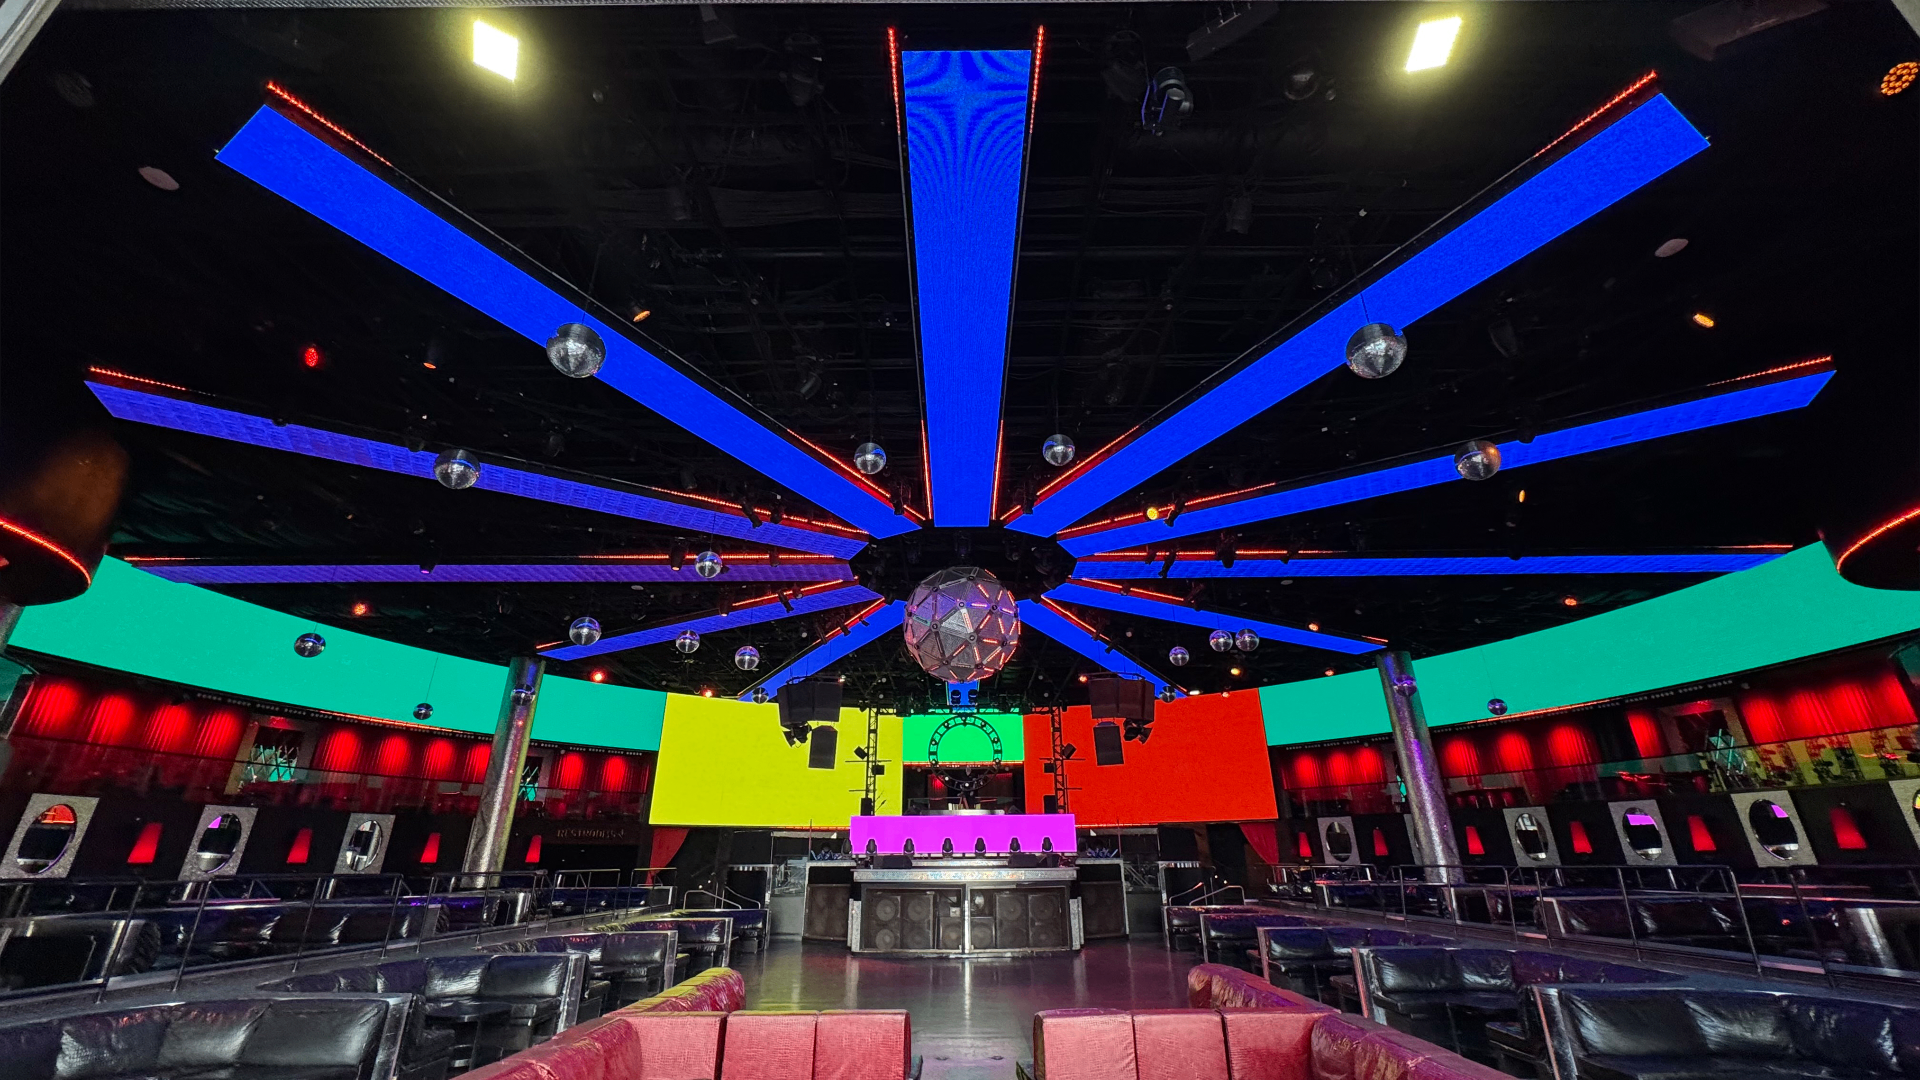
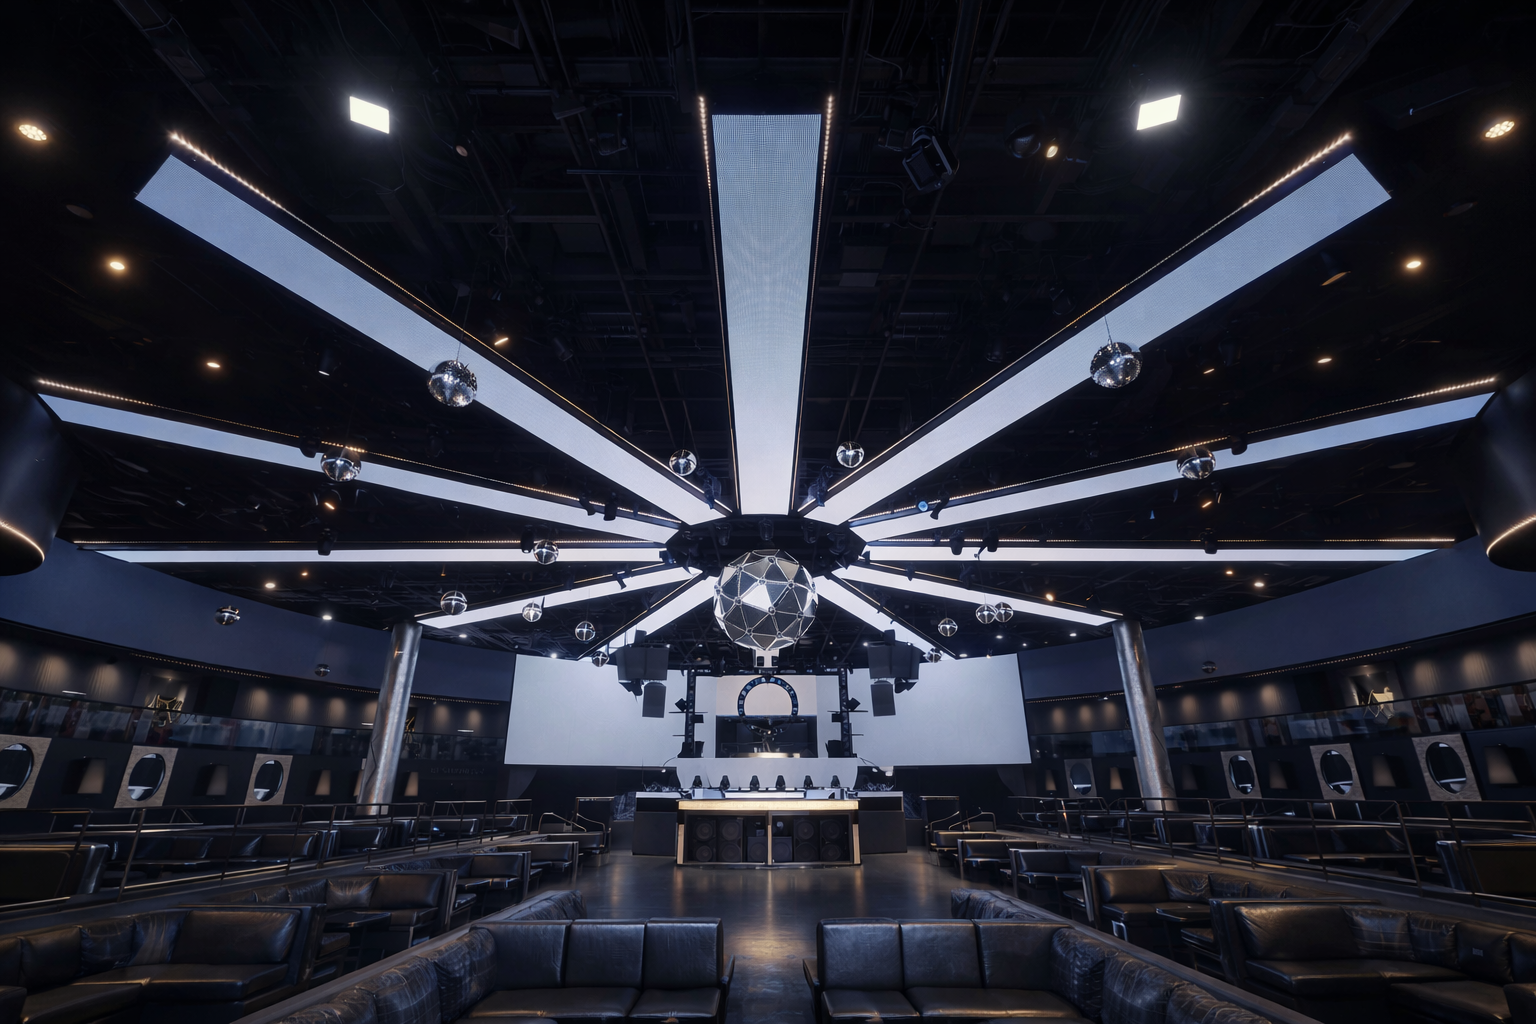
Changes

diff --git a/src/components/VenueScreenMap.tsx b/src/components/VenueScreenMap.tsx
@@ -18,8 +18,8 @@ interface VenueScreenMapProps {
 const SCREEN_SEGMENTS = [
   // Sol Rays (ceiling section)
   { id: 'Sol Rays', svgId: 'Sol_Rays', group: 'solRays', label: 'Sol Rays', description: 'Main ceiling LED display' },
-  // DJ Booth
-  { id: 'DJ Booth', svgId: 'booth', group: 'djBooth', label: 'DJ Booth', description: 'Behind DJ booth screen' },
+  // DJ Booth - uses long illustrator-exported ID
+  { id: 'DJ Booth', svgId: 'SOLEIA_SCREEN_white_x5F_0006_x5F_booth.psd', group: 'djBooth', label: 'DJ Booth', description: 'Behind DJ booth screen' },
   // Side curves
   { id: 'Curves SL', svgId: 'sl_curves', group: 'curves', label: 'Curve SL', description: 'Stage left curved screen' },
   { id: 'Curves SR', svgId: 'sr_curves', group: 'curves', label: 'Curve SR', description: 'Stage right curved screen' },
@@ -195,18 +195,17 @@ const VenueScreenMap: React.FC<VenueScreenMapProps> = ({
     <TooltipProvider>
       <div 
         ref={containerRef}
-        className="relative w-full aspect-video bg-gradient-to-b from-background to-muted/30 rounded-xl overflow-hidden border-2 border-border/50 shadow-lg"
+        className="relative w-full aspect-video rounded-xl overflow-hidden border-2 border-border/50 shadow-lg"
       >
-        {/* Diagram grid overlay for technical feel */}
-        <div className="absolute inset-0 opacity-[0.03] pointer-events-none"
-          style={{
-            backgroundImage: `
-              linear-gradient(to right, hsl(var(--foreground)) 1px, transparent 1px),
-              linear-gradient(to bottom, hsl(var(--foreground)) 1px, transparent 1px)
-            `,
-            backgroundSize: '40px 40px'
-          }}
+        {/* Venue background image */}
+        <img 
+          src="/venue-screens.png" 
+          alt="Soleia Venue" 
+          className="absolute inset-0 w-full h-full object-cover"
         />
+        
+        {/* Slight overlay for better screen visibility */}
+        <div className="absolute inset-0 bg-black/20 pointer-events-none" />
         
         {/* SVG overlay with embedded images - this IS the venue photo with overlays */}
         {svgContent && (
